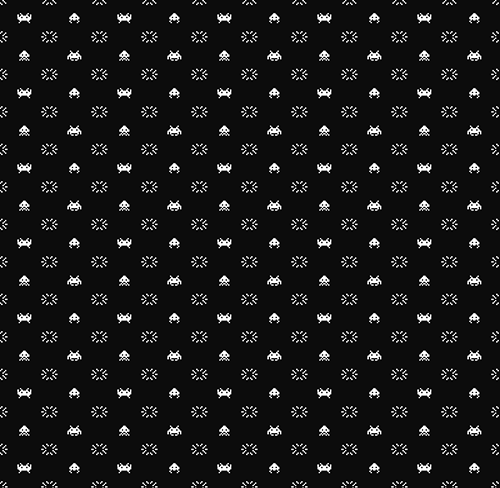
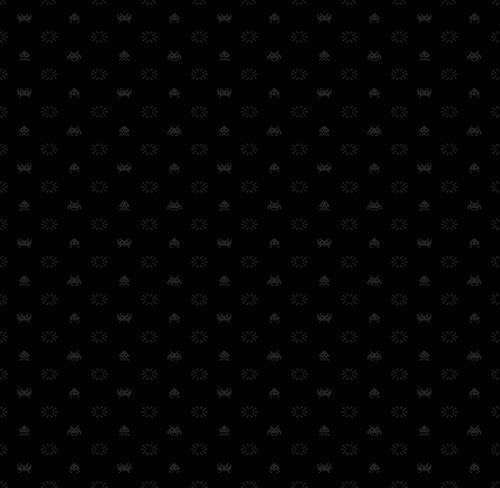
Remove bg and add card

diff --git a/app/index.html b/app/index.html
@@ -8,18 +8,6 @@
 		<!-- Allow installing the app to the homescreen -->
 		<link rel="manifest" href="manifest.json">
 		<meta name="mobile-web-app-capable" content="yes">
-		<script src='http://felixturner.github.io/bad-tv-shader/example/lib/three.min.js'></script>
-		<script src='http://felixturner.github.io/bad-tv-shader/example/lib/dat.gui.min.js'></script>
-		<script src='http://felixturner.github.io/bad-tv-shader/example/lib/postprocessing/EffectComposer.js'></script>
-		<script src='http://felixturner.github.io/bad-tv-shader/example/lib/postprocessing/RenderPass.js'></script>
-		<script src='http://felixturner.github.io/bad-tv-shader/example/lib/postprocessing/ShaderPass.js'></script>
-		<script src='http://felixturner.github.io/bad-tv-shader/example/lib/postprocessing/MaskPass.js'></script>
-		<script src='http://felixturner.github.io/bad-tv-shader/example/lib/shaders/CopyShader.js'></script>
-
-		<script src='http://felixturner.github.io/bad-tv-shader/example/lib/shaders/FilmShader.js'></script>
-		<script src='http://felixturner.github.io/bad-tv-shader/example/lib/shaders/RGBShiftShader.js'></script>
-		<script src='http://felixturner.github.io/bad-tv-shader/example/js/BadTVShader.js'></script>
-		<script src='http://felixturner.github.io/bad-tv-shader/example/js/StaticShader.js'></script>
 		<title>rog.mx</title>
 	</head>
 	<body>
@@ -29,237 +17,5 @@
 		<!-- Open Sans Font -->
 		<link href="https://fonts.googleapis.com/css?family=Open+Sans:400,700" rel="stylesheet">
 		<!-- A lot of magic happens in this file. HtmlWebpackPlugin automatically includes all assets (e.g. bundle.js, main.css) with the correct HTML tags, which is why they are missing in this HTML file. Don't add any assets here! (Check out webpackconfig.js if you want to know more) -->
-		<script>
-			//Bad TV Shader Demo
-			//Using Three.js r.75
-			//by Felix Turner / www.airtight.cc / @felixturner
-
-
-			var camera, scene, renderer;
-			var video, videoTexture,videoMaterial;
-			var composer;
-			var shaderTime = 0;
-			var badTVParams, badTVPass;
-			var staticParams, staticPass;
-			var rgbParams, rgbPass;
-			var filmParams, filmPass;
-			var renderPass, copyPass;
-			var gui;
-			var pnoise, globalParams;
-
-			init();
-			animate();
-
-			function init() {
-
-				camera = new THREE.PerspectiveCamera(55, 1080/ 720, 20, 3000);
-				camera.position.z = 1000;
-				scene = new THREE.Scene();
-
-				//Use webcam
-				// video = document.createElement('video');
-				// video.width = 320;
-				// video.height = 240;
-				// video.autoplay = true;
-				// video.loop = true;
-				// //Webcam video
-				// window.URL = window.URL || window.webkitURL;
-				// navigator.getUserMedia = navigator.getUserMedia || navigator.webkitGetUserMedia || navigator.mozGetUserMedia || navigator.msGetUserMedia;
-				// //get webcam
-				// navigator.getUserMedia({
-				// 	video: true
-				// }, function(stream) {
-				// 	//on webcam enabled
-				// 	video.src = window.URL.createObjectURL(stream);
-				// }, function(error) {
-				// 	prompt.innerHTML = 'Unable to capture WebCam. Please reload the page.';
-				// });
-
-				//init renderer
-				renderer = new THREE.WebGLRenderer();
-				renderer.setSize( 800, 600 );
-				document.body.appendChild( renderer.domElement );
-
-				//POST PROCESSING
-				//Create Shader Passes
-				renderPass = new THREE.RenderPass( scene, camera );
-				badTVPass = new THREE.ShaderPass( THREE.BadTVShader );
-				rgbPass = new THREE.ShaderPass( THREE.RGBShiftShader );
-				filmPass = new THREE.ShaderPass( THREE.FilmShader );
-				staticPass = new THREE.ShaderPass( THREE.StaticShader );
-				copyPass = new THREE.ShaderPass( THREE.CopyShader );
-
-				//set shader uniforms
-
-				//Init DAT GUI control panel
-				badTVParams = {
-					mute:true,
-					show: true,
-					distortion: 3.0,
-					distortion2: 1.0,
-					speed: 0.3,
-					rollSpeed: 0.1
-				};
-
-				staticParams = {
-					show: true,
-					amount:0.5,
-					size:4.0
-				};
-
-				rgbParams = {
-					show: true,
-					amount: 0.005,
-					angle: 0.0,
-				};
-
-				filmParams = {
-					show: true,
-					count: 800,
-					sIntensity: 0.9,
-					nIntensity: 0.4
-				};
-
-				gui = new dat.GUI();
-
-				gui.add(badTVParams, 'mute').onChange(onToggleMute);
-
-				var f1 = gui.addFolder('Bad TV');
-				f1.add(badTVParams, 'show').onChange(onToggleShaders);
-				f1.add(badTVParams, 'distortion', 0.1, 20).step(0.1).listen().name('Thick Distort').onChange(onParamsChange);
-				f1.add(badTVParams, 'distortion2', 0.1, 20).step(0.1).listen().name('Fine Distort').onChange(onParamsChange);
-				f1.add(badTVParams, 'speed', 0.0,1.0).step(0.01).listen().name('Distort Speed').onChange(onParamsChange);
-				f1.add(badTVParams, 'rollSpeed', 0.0,1.0).step(0.01).listen().name('Roll Speed').onChange(onParamsChange);
-				f1.open();
-
-				var f2 = gui.addFolder('RGB Shift');
-				f2.add(rgbParams, 'show').onChange(onToggleShaders);
-				f2.add(rgbParams, 'amount', 0.0, 0.1).listen().onChange(onParamsChange);
-				f2.add(rgbParams, 'angle', 0.0, 2.0).listen().onChange(onParamsChange);
-				f2.open();
-
-				var f4 = gui.addFolder('Static');
-				f4.add(staticParams, 'show').onChange(onToggleShaders);
-				f4.add(staticParams, 'amount', 0.0,1.0).step(0.01).listen().onChange(onParamsChange);
-				f4.add(staticParams, 'size', 1.0,100.0).step(1.0).onChange(onParamsChange);
-				f4.open();
-
-				var f3 = gui.addFolder('Scanlines');
-				f3.add(filmParams, 'show').onChange(onToggleShaders);
-				f3.add(filmParams, 'count', 50, 1000).onChange(onParamsChange);
-				f3.add(filmParams, 'sIntensity', 0.0, 2.0).step(0.1).onChange(onParamsChange);
-				f3.add(filmParams, 'nIntensity', 0.0, 2.0).step(0.1).onChange(onParamsChange);
-				f3.open();
-
-				gui.close();
-
-				onToggleShaders();
-				onToggleMute();
-				onParamsChange();
-
-				window.addEventListener('resize', onResize, false);
-				renderer.domElement.addEventListener('click', randomizeParams, false);
-				onResize();
-				randomizeParams();
-			}
-
-			function onParamsChange() {
-
-				//copy gui params into shader uniforms
-				badTVPass.uniforms[ 'distortion' ].value = badTVParams.distortion;
-				badTVPass.uniforms[ 'distortion2' ].value = badTVParams.distortion2;
-				badTVPass.uniforms[ 'speed' ].value = badTVParams.speed;
-				badTVPass.uniforms[ 'rollSpeed' ].value = badTVParams.rollSpeed;
-
-				staticPass.uniforms[ 'amount' ].value = staticParams.amount;
-				staticPass.uniforms[ 'size' ].value = staticParams.size;
-
-				rgbPass.uniforms[ 'angle' ].value = rgbParams.angle*Math.PI;
-				rgbPass.uniforms[ 'amount' ].value = rgbParams.amount;
-
-				filmPass.uniforms[ 'sCount' ].value = filmParams.count;
-				filmPass.uniforms[ 'sIntensity' ].value = filmParams.sIntensity;
-				filmPass.uniforms[ 'nIntensity' ].value = filmParams.nIntensity;
-			}
-
-
-			function randomizeParams() {
-
-				if (Math.random() <0.2){
-					//you fixed it!
-					badTVParams.distortion = 0.1;
-					badTVParams.distortion2 =0.1;
-					badTVParams.speed =0;
-					badTVParams.rollSpeed =0;
-					rgbParams.angle = 0;
-					rgbParams.amount = 0;
-					staticParams.amount = 0;
-
-				}else{
-					badTVParams.distortion = Math.random()*10+0.1;
-					badTVParams.distortion2 =Math.random()*10+0.1;
-					badTVParams.speed =Math.random()*0.4;
-					badTVParams.rollSpeed =Math.random()*0.2;
-					rgbParams.angle = Math.random()*2;
-					rgbParams.amount = Math.random()*0.03;
-					staticParams.amount = Math.random()*0.2;
-				}
-
-				onParamsChange();
-			}
-
-			function onToggleMute(){
-				// video.volume  = badTVParams.mute ? 0 : 1;
-				return
-			}
-
-			function onToggleShaders(){
-
-				//Add Shader Passes to Composer
-				//order is important
-				composer = new THREE.EffectComposer( renderer);
-				composer.addPass( renderPass );
-
-				if (filmParams.show){
-					composer.addPass( filmPass );
-				}
-
-				if (badTVParams.show){
-					composer.addPass( badTVPass );
-				}
-
-				if (rgbParams.show){
-					composer.addPass( rgbPass );
-				}
-
-				if (staticParams.show){
-					composer.addPass( staticPass );
-				}
-
-				composer.addPass( copyPass );
-				copyPass.renderToScreen = true;
-			}
-
-			function animate() {
-
-				shaderTime += 0.1;
-				badTVPass.uniforms[ 'time' ].value =  shaderTime;
-				filmPass.uniforms[ 'time' ].value =  shaderTime;
-				staticPass.uniforms[ 'time' ].value =  shaderTime;
-
-				/* if ( video.readyState === video.HAVE_ENOUGH_DATA ) {
-					if ( videoTexture ) videoTexture.needsUpdate = true;
-				} */
-
-				requestAnimationFrame( animate );
-				composer.render( 0.1);
-			}
-
-			function onResize() {
-				renderer.setSize(window.innerWidth, window.innerHeight);
-				camera.aspect = window.innerWidth / window.innerHeight;
-				camera.updateProjectionMatrix();
-			}
-		</script>
 	</body>
 </html>

diff --git a/app/containers/App/styles.css b/app/containers/App/styles.css
@@ -16,26 +16,16 @@ body.fontLoaded {
 }
 
 :global(#app) {
+  height: 100%;
+  width: 60%;
+  margin: 0 auto;
+  padding: 20px;
+  display: flex;
+  justify-content: center;
+  align-items: center;
+  overflow: auto;
 }
 
 .wrapper {
-  max-width: calc(768px + 16px * 2);
-  margin: 0 auto;
-  display: -webkit-flex;
-  display: -ms-flexbox;
-  display: flex;
-  min-height: 100%;
-  padding: 0 16px;
-  flex-direction: column;
-}
 
-.logoWrapper {
-  padding: 2em 0;
-}
-
-.logo {
-  width: 100%;
-  height: 400px;
-  margin: 0 auto;
-  display: block;
 }

diff --git a/app/containers/HomePage/index.js b/app/containers/HomePage/index.js
@@ -11,6 +11,8 @@ import shouldPureComponentUpdate from 'react-pure-render/function'
 
 import { createSelector } from 'reselect'
 
+import AboutCard from 'components/AboutCard'
+
 import usernameSelector from 'selectors/usernameSelector'
 import loadingSelector from 'selectors/loadingSelector'
 import errorSelector from 'selectors/errorSelector'
@@ -55,10 +57,7 @@ export class HomePage extends React.Component {
     } */
 
     return (
-      <article>
-        <div>
-        </div>
-      </article>
+      <AboutCard />
     )
   }
 }

diff --git a/app/containers/App/index.js b/app/containers/App/index.js
@@ -10,16 +10,12 @@ import React from 'react'
 
 // Import the CSS reset, which HtmlWebpackPlugin transfers to the build folder
 import 'sanitize.css/sanitize.css'
-
-import SpaceInvadersTV from 'components/SpaceInvadersTV'
-
 import styles from './styles.css'
 
 function App (props) {
   return (
     <div className={styles.wrapper}>
       {props.children}
-      <SpaceInvadersTV />
     </div>
   )
 }

diff --git a/app/components/SpaceInvadersTV/index.test.js b/app/components/SpaceInvadersTV/index.test.js
@@ -11,9 +11,7 @@ describe('<SpaceInvadersTV />', () => {
     )
     expect(renderedComponent.contains(
       <section>
-        <p>
-          Made with love by <a href='https://github.com/rogr'>Rogelio</a>.
-        </p>
+        Hey!
       </section>
     )).toEqual(true)
   })

diff --git a/app/components/SpaceInvadersTV/index.js b/app/components/SpaceInvadersTV/index.js
@@ -1,7 +1,7 @@
 import React from 'react'
 
 import styles from './styles.css'
-require('static?!./video/spaceinvaders.mp4?output=spaceinvaders.mp4')
+// require('static?!./video/spaceinvaders.mp4?output=spaceinvaders.mp4')
 
 function SpaceInvadersTV () {
   return (

diff --git a/app/components/AboutCard/styles.css b/app/components/AboutCard/styles.css
@@ -1,2 +1,10 @@
 .AboutCard {
+  background: white;
+  width: 400px;
+  height: 500px;
+  padding: 20px;
+  overflow: auto;
+
+  border-radius: 2px;
+  margin: 0 auto 40px auto;
 }
